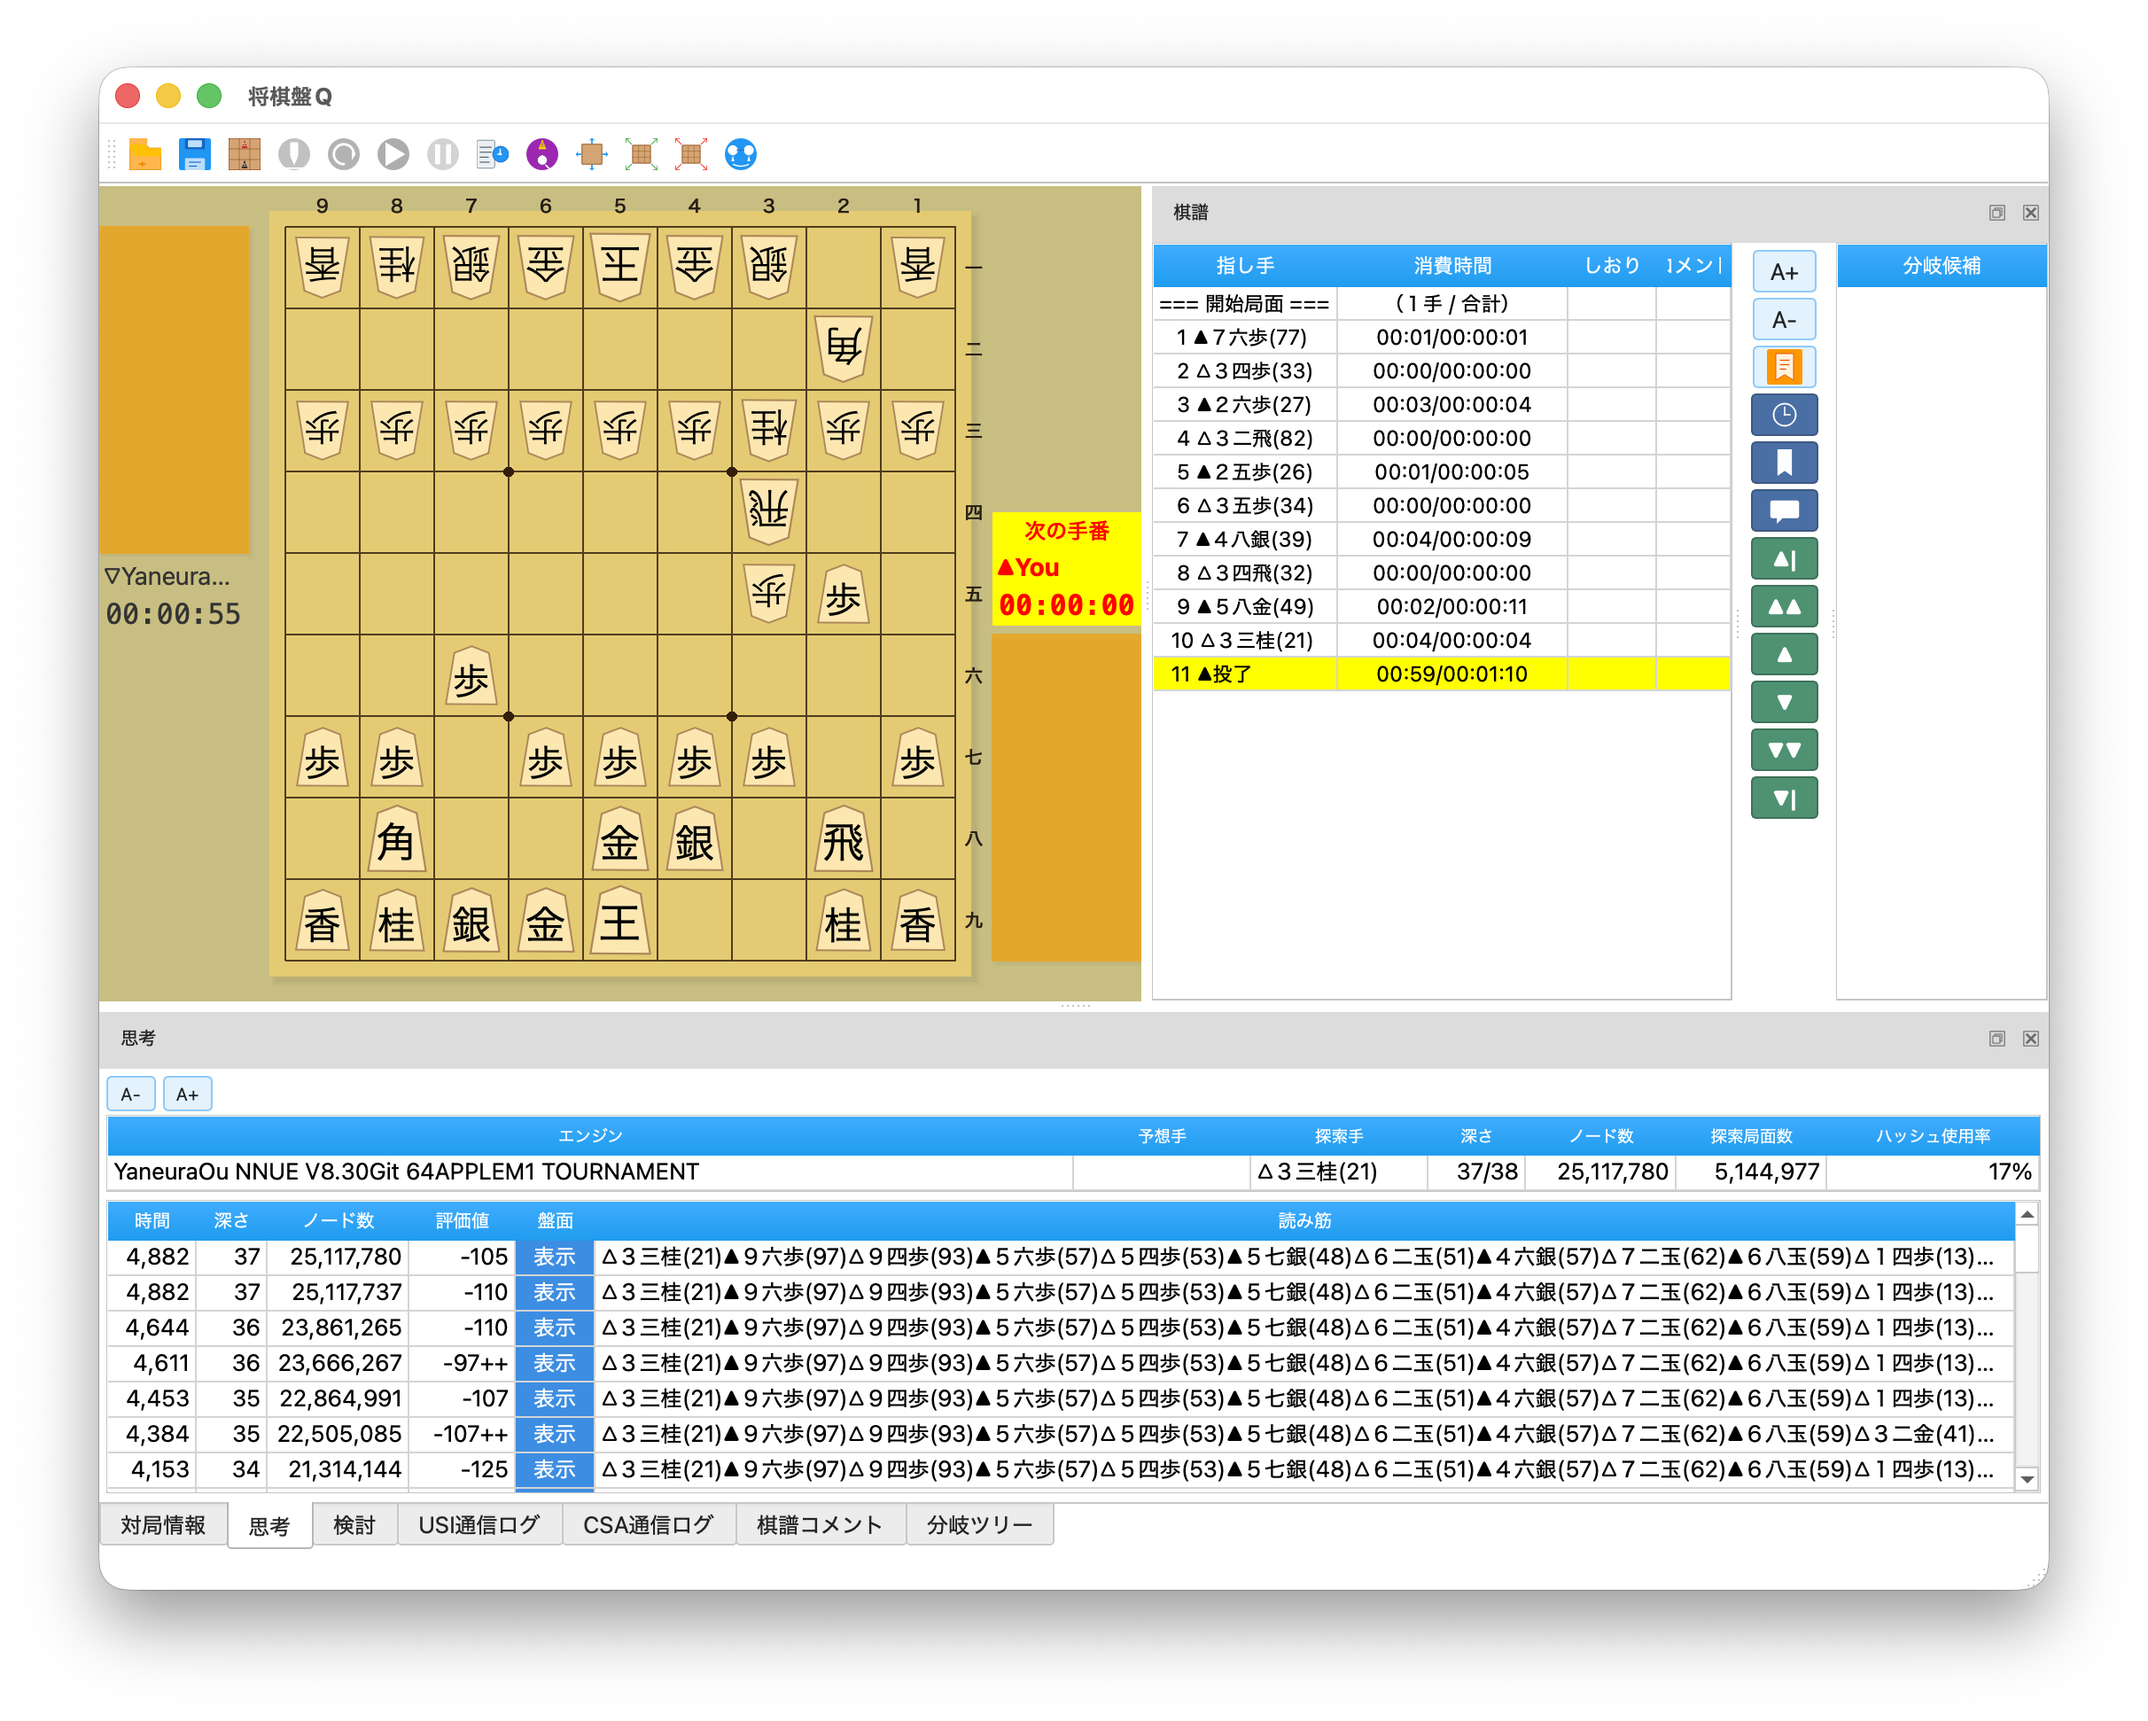
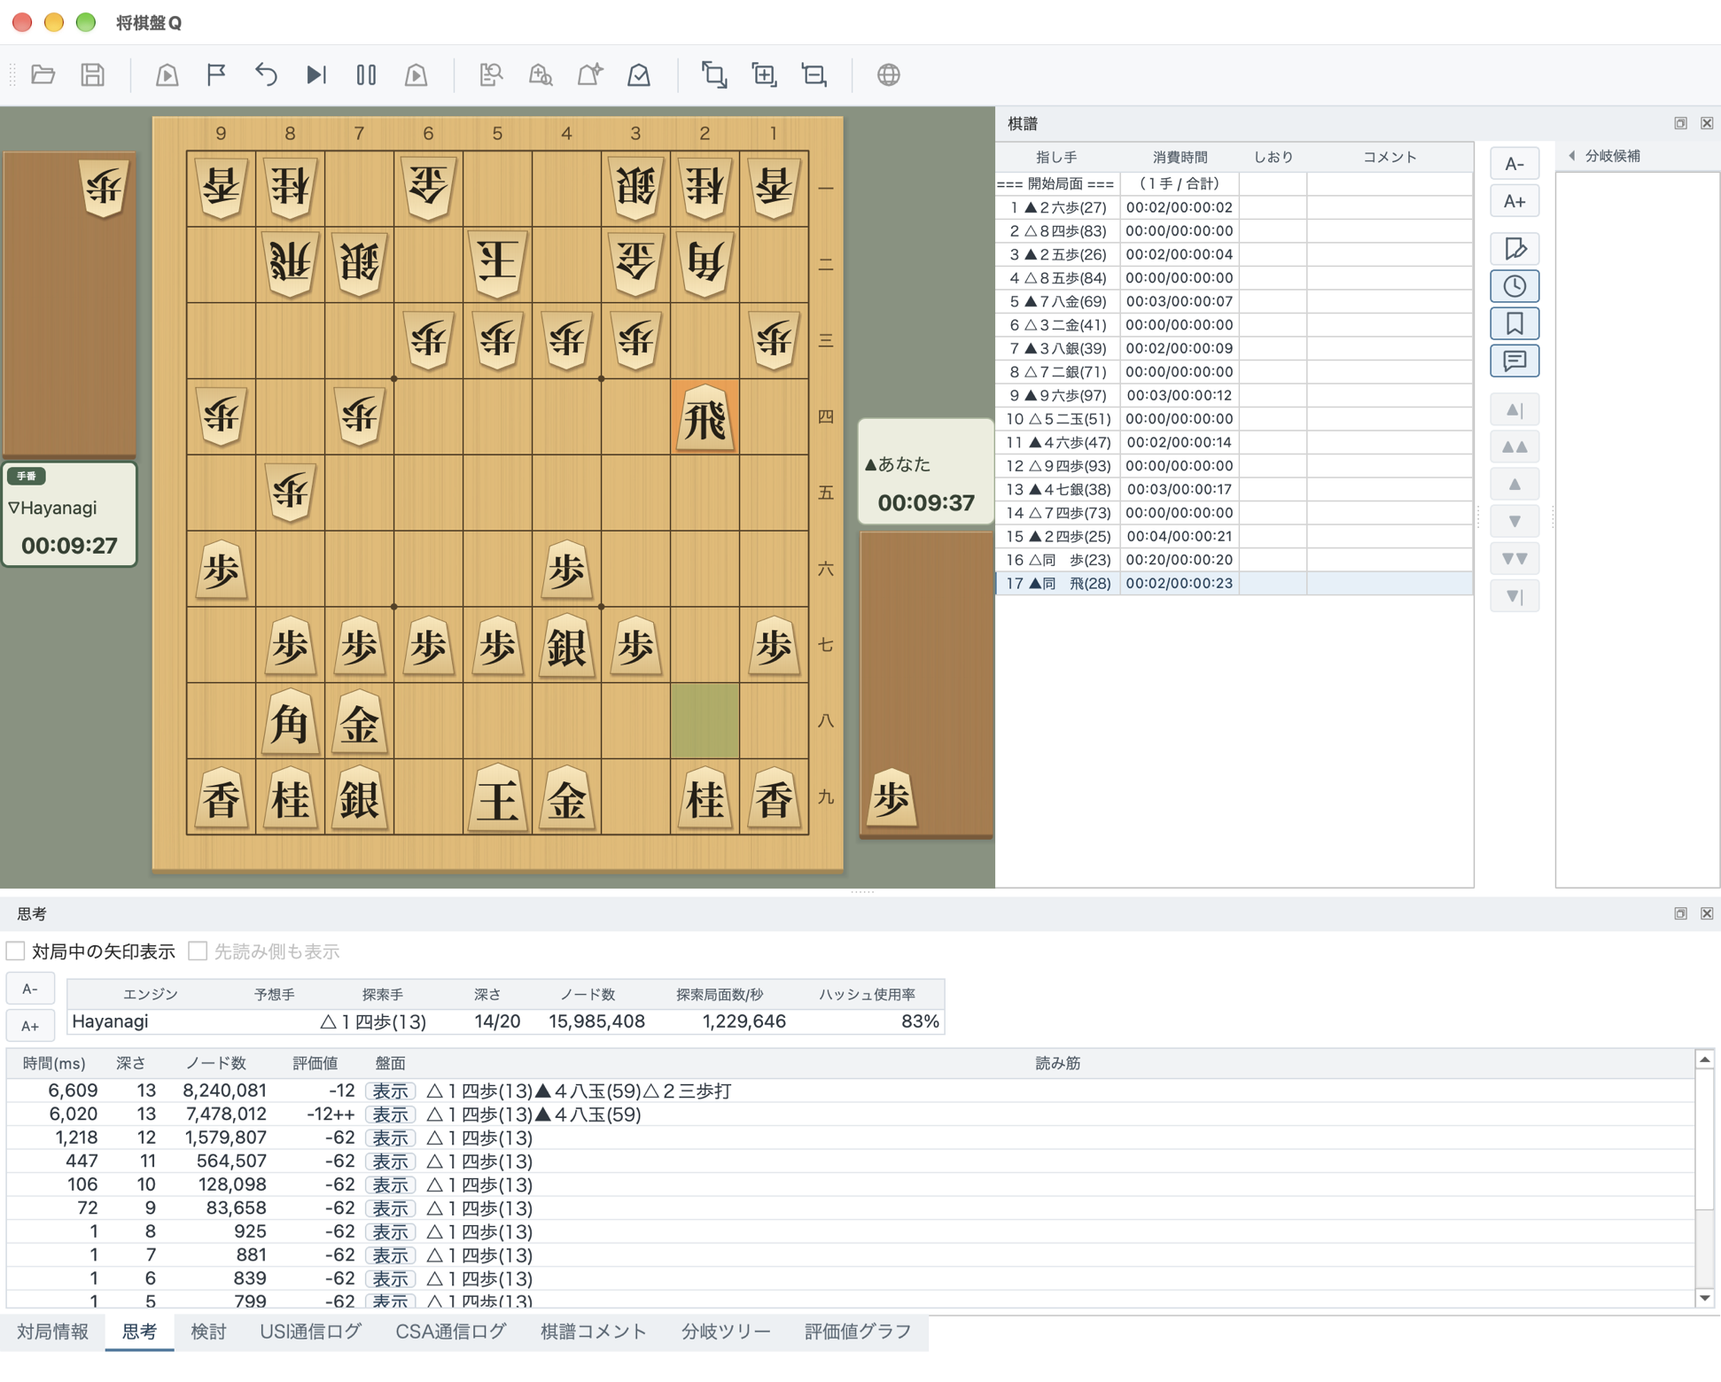
クロスプラットフォームのガイドの macOS の画面を4言語で撮り直す
macOS で将棋エンジン Hayanagi と対局中の画面を ja・en・zh-cn・zh-tw の
それぞれの言語で撮り、各ページの macOS の箇所を差し替える。英語版は Linux の
画像で代用していたのをやめ、中国語版は日本語の画像からそれぞれの言語の画像にする。
ja の「macOSのネイティブなルック&フィール」「macOS標準のUIスタイル」は
Fusion スタイルに揃えている実装と合わないので、他の言語と同じ説明にする。

diff --git a/docs/guide/multi-os.html b/docs/guide/multi-os.html
@@ -115,10 +115,10 @@
                     <span class="guide-step-number">1</span>
                     <span class="guide-step-title">macOS版の画面</span>
                 </div>
-                <p class="guide-step-text">macOS上でShogiBoardQが動作している様子です。macOSのネイティブなルック&フィールで表示されます。</p>
+                <p class="guide-step-text">macOS上でShogiBoardQが動作している様子です。画像はmacOSで、将棋エンジン<a href="hayanagi.html">Hayanagi</a>と対局しているところです。</p>
                 <div class="screenshot-item">
-                    <img src="../images/multi-os/macOS.png" alt="ShogiBoardQ macOS版の画面">
-                    <p class="screenshot-caption">macOS版：macOS環境での対局画面</p>
+                    <a href="../images/multi-os/macOS.png"><img src="../images/multi-os/macOS.png" alt="ShogiBoardQ macOS版の画面（macOSで将棋エンジンHayanagiと対局中）" width="1942" height="1560" loading="lazy"></a>
+                    <p class="screenshot-caption">macOS版：macOSでの対局画面（Hayanagiが思考中）</p>
                 </div>
             </div>
 
@@ -174,7 +174,7 @@
                 <p class="guide-step-text">Qt6は各OSのネイティブなスタイルに合わせてUIを描画します。これにより、どのOSでも違和感のない操作感を提供します。</p>
                 <ul class="guide-step-text">
                     <li>Linux：KDE Plasma、GNOMEなどのデスクトップ環境に対応</li>
-                    <li>macOS：macOS標準のUIスタイルで表示</li>
+                    <li>macOS：同じ盤面・メニュー・ダイアログで表示</li>
                     <li>Windows：Windows標準のUIスタイルで表示</li>
                 </ul>
             </div>

diff --git a/docs/zh-cn/guide/multi-os.html b/docs/zh-cn/guide/multi-os.html
@@ -67,7 +67,7 @@
             <span class="badge">Windows</span>
             <span class="badge">Qt 6</span>
         </div>
-        <p class="screenshot-note">Linux 和 Windows 的截图以简体中文界面拍摄。macOS 的截图为日文界面。</p>
+        <p class="screenshot-note">Linux、macOS 和 Windows 的截图均以简体中文界面拍摄。</p>
     </div>
 </section>
 
@@ -117,10 +117,10 @@
                     <span class="guide-step-number">1</span>
                     <span class="guide-step-title">macOS 版的画面</span>
                 </div>
-                <p class="guide-step-text">ShogiBoardQ 在 macOS 上运行的样子。</p>
+                <p class="guide-step-text">ShogiBoardQ 在 macOS 上运行的样子。截图是在 macOS 上与将棋引擎 <a href="hayanagi.html">Hayanagi</a> 对局的画面。</p>
                 <div class="screenshot-item">
-                    <a href="../../images/multi-os/macOS.png"><img src="../../images/multi-os/macOS.png" alt="ShogiBoardQ 的 macOS 版画面" width="2424" height="1942" loading="lazy"></a>
-                    <p class="screenshot-caption">macOS 版：macOS 环境中的对局画面（日文界面）</p>
+                    <a href="../../images/zh-cn/multi-os/macOS.png"><img src="../../images/zh-cn/multi-os/macOS.png" alt="ShogiBoardQ 的 macOS 版画面（在 macOS 上与将棋引擎 Hayanagi 对局）" width="1925" height="1561" loading="lazy"></a>
+                    <p class="screenshot-caption">macOS 版：macOS 中的对局画面（Hayanagi 正在思考）</p>
                 </div>
             </div>
 

diff --git a/docs/zh-tw/guide/multi-os.html b/docs/zh-tw/guide/multi-os.html
@@ -67,7 +67,7 @@
             <span class="badge">Windows</span>
             <span class="badge">Qt 6</span>
         </div>
-        <p class="screenshot-note">Linux 和 Windows 的截圖以繁體中文介面擷取。macOS 的截圖為日文介面。</p>
+        <p class="screenshot-note">Linux、macOS 和 Windows 的截圖皆以繁體中文介面擷取。</p>
     </div>
 </section>
 
@@ -117,10 +117,10 @@
                     <span class="guide-step-number">1</span>
                     <span class="guide-step-title">macOS 版的畫面</span>
                 </div>
-                <p class="guide-step-text">ShogiBoardQ 在 macOS 上執行的樣子。</p>
+                <p class="guide-step-text">ShogiBoardQ 在 macOS 上執行的樣子。截圖是在 macOS 上與將棋引擎 <a href="hayanagi.html">Hayanagi</a> 對局的畫面。</p>
                 <div class="screenshot-item">
-                    <a href="../../images/multi-os/macOS.png"><img src="../../images/multi-os/macOS.png" alt="ShogiBoardQ 的 macOS 版畫面" width="2424" height="1942" loading="lazy"></a>
-                    <p class="screenshot-caption">macOS 版：macOS 環境中的對局畫面（日文介面）</p>
+                    <a href="../../images/zh-tw/multi-os/macOS.png"><img src="../../images/zh-tw/multi-os/macOS.png" alt="ShogiBoardQ 的 macOS 版畫面（在 macOS 上與將棋引擎 Hayanagi 對局）" width="1925" height="1564" loading="lazy"></a>
+                    <p class="screenshot-caption">macOS 版：macOS 中的對局畫面（Hayanagi 正在思考）</p>
                 </div>
             </div>
 

diff --git a/docs/en/guide/multi-os.html b/docs/en/guide/multi-os.html
@@ -66,7 +66,7 @@
 <span class="badge">Windows</span>
 <span class="badge">Qt 6</span>
 </div>
-<p class="screenshot-note">The Linux and Windows screenshots were captured with the English interface.</p>
+<p class="screenshot-note">The Linux, macOS, and Windows screenshots were captured with the English interface.</p>
 </div>
 </section>
 <!-- Section 1: Linux -->
@@ -111,12 +111,12 @@
 <div class="guide-step">
 <div class="guide-step-header">
 <span class="guide-step-number">1</span>
-<span class="guide-step-title">Common Interface Example</span>
+<span class="guide-step-title">macOS Screenshot</span>
 </div>
-<p class="guide-step-text">ShogiBoardQ also runs on macOS. The Linux screenshot below illustrates the shared English interface; it was captured on Linux.</p>
+<p class="guide-step-text">ShogiBoardQ running on macOS. The screenshot shows a game against the <a href="hayanagi.html">Hayanagi</a> engine on macOS.</p>
 <div class="screenshot-item">
-<img alt="Common English interface example captured on Linux" src="../../images/en/multi-os/Linux.png"/>
-<p class="screenshot-caption">Common interface example — captured on Linux</p>
+<a href="../../images/en/multi-os/macOS.png"><img src="../../images/en/multi-os/macOS.png" alt="ShogiBoardQ on macOS: a game against the Hayanagi engine" width="2070" height="1560" loading="lazy"></a>
+<p class="screenshot-caption">macOS: a game on macOS while Hayanagi is thinking (English interface)</p>
 </div>
 </div>
 </div>
